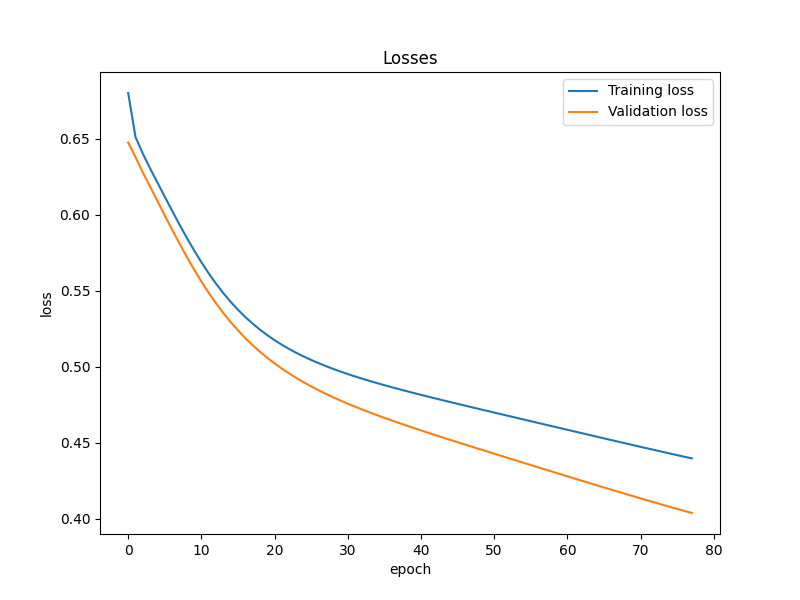
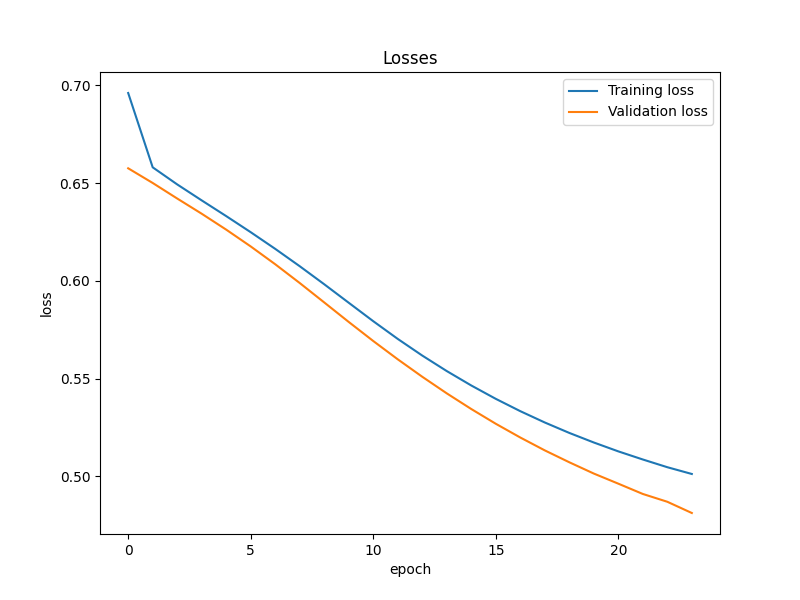
Fix loss and accuracy tracking for MultiLogReg

diff --git a/IN3050/oblig2/classifiers.py b/IN3050/oblig2/classifiers.py
@@ -1,5 +1,5 @@
 from abc import ABC, abstractmethod
-from typing import List, Optional
+from typing import Optional
 import numpy as np
 
 
@@ -45,6 +45,7 @@ class Classifier(ABC):
         self.train_accuracies = np.array([], dtype=float)
         self.val_accuracies = np.array([], dtype=float)
         self.trained_epochs = 0
+        self.weights = None
 
     @abstractmethod
     def predict(self, X: np.ndarray, threshold: Optional[float] = None) -> np.ndarray: ...
@@ -81,7 +82,8 @@ class BinaryLinearRegressionClassifier(Classifier):
 
         n_datapoints, n_features = X_TRAIN.shape
 
-        self.weights = np.zeros(n_features)
+        if self.weights is None:
+            self.weights = np.zeros(n_features)
 
         for _ in range(epochs):
             train_predictions = X_TRAIN @ self.weights
@@ -131,8 +133,9 @@ class BinaryLogisticRegressionClassifier(Classifier):
             X_VAL = add_bias(X_VAL, self.bias)
 
         n_datapoints, n_features = X_TRAIN.shape
-        
-        self.weights = np.zeros(n_features)
+
+        if self.weights is None:
+            self.weights = np.zeros(n_features)
         
         for _ in range(epochs):
             train_predictions = self._forward(X_TRAIN)
@@ -169,7 +172,7 @@ class BinaryLogisticRegressionClassifier(Classifier):
         return 1 / (1 + np.exp(-X @ self.weights))
 
 
-class MultiLogisticRegressionClassifier(BinaryLogisticRegressionClassifier):
+class MultiLogisticRegressionClassifier(Classifier):
     def fit(
         self,
         X_TRAIN: np.ndarray,
@@ -181,57 +184,31 @@ class MultiLogisticRegressionClassifier(BinaryLogisticRegressionClassifier):
         tol: float = 0.001,
         n_epochs_no_update: int = 5,
     ) -> None:
-        self.classifiers: List[BinaryLogisticRegressionClassifier] = []
         unique_classes = np.unique(T_TRAIN)
+        self.classifiers = [BinaryLogisticRegressionClassifier(self.bias) for _ in unique_classes]
 
-        for class_index in unique_classes:
-            T_TRAIN_BINARY = (T_TRAIN == class_index).astype(int)
-            T_VAL_BINARY = (T_VAL == class_index).astype(int) if T_VAL is not None else None
+        # Precompute the binary target arrays for training and validation sets
+        T_TRAIN_BINARIES = [(T_TRAIN == class_index).astype(int) for class_index in unique_classes]
+        T_VAL_BINARIES = [(T_VAL == class_index).astype(int) for class_index in unique_classes] if T_VAL is not None else [None] * len(unique_classes)
 
-            classifier = BinaryLogisticRegressionClassifier(self.bias)
-            classifier.fit(X_TRAIN, T_TRAIN_BINARY, X_VAL, T_VAL_BINARY, learning_rate, epochs, tol, n_epochs_no_update)
+        for _ in range(epochs):
+            for classifier, T_TRAIN_BINARY, T_VAL_BINARY in zip(self.classifiers, T_TRAIN_BINARIES, T_VAL_BINARIES):
+                # Here we only train the classifiers one epoch at a time which makes it significantly slower
+                # but gives us more debug information in terms of logging losses and accuracies while training
+                classifier.fit(X_TRAIN, T_TRAIN_BINARY, X_VAL, T_VAL_BINARY, learning_rate, 1, tol, n_epochs_no_update)
 
-            self.classifiers.append(classifier)
+            # Make predictions using the current state of classifiers and calculate losses and accuracies
+            train_predictions = self.predict(X_TRAIN)
+            self.train_losses = np.append(self.train_losses, mean_squared_error_loss(train_predictions, T_TRAIN))
+            self.train_accuracies = np.append(self.train_accuracies, accuracy(train_predictions, T_TRAIN))
 
-        # calculate losses and accuracies as the averages across all classifiers
-        self.train_losses = self.classifiers[0].train_losses
-        self.val_losses = self.classifiers[0].val_losses
-        self.train_accuracies = self.classifiers[0].train_accuracies
-        self.val_accuracies = self.classifiers[0].val_accuracies
+            if X_VAL is not None and T_VAL is not None:
+                val_predictions = self.predict(X_VAL)
+                self.val_losses = np.append(self.val_losses, mean_squared_error_loss(val_predictions, T_VAL))
+                self.val_accuracies = np.append(self.val_accuracies, accuracy(val_predictions, T_VAL))
 
-        for i in range(2, len(self.classifiers)):
-            if len(self.classifiers[i].train_losses) > len(self.train_losses):
-                self.train_losses.resize(self.classifiers[i].train_losses.shape)
-            elif len(self.classifiers[i].train_losses) < len(self.train_losses):
-                self.classifiers[i].train_losses.resize(self.train_losses.shape)
-
-            if len(self.classifiers[i].val_losses) > len(self.val_losses):
-                self.val_losses.resize(self.classifiers[i].val_losses.shape)
-            elif len(self.classifiers[i].val_losses) < len(self.val_losses):
-                self.classifiers[i].val_losses.resize(self.val_losses.shape)
-
-            if len(self.classifiers[i].train_accuracies) > len(self.train_accuracies):
-                self.train_accuracies.resize(self.classifiers[i].train_accuracies.shape)
-            elif len(self.classifiers[i].train_accuracies) < len(self.train_accuracies):
-                self.classifiers[i].train_accuracies.resize(self.train_accuracies.shape)
-
-            if len(self.classifiers[i].val_accuracies) > len(self.val_accuracies):
-                self.val_accuracies.resize(self.classifiers[i].val_accuracies.shape)
-            elif len(self.classifiers[i].val_accuracies) < len(self.val_accuracies):
-                self.classifiers[i].val_accuracies.resize(self.val_accuracies.shape)
-
-            self.train_accuracies += self.classifiers[i].train_accuracies
-            self.val_accuracies += self.classifiers[i].val_accuracies
-            self.train_accuracies += self.classifiers[i].train_accuracies
-            self.val_accuracies += self.classifiers[i].val_accuracies
-
-        self.train_losses = np.divide(self.train_losses, len(unique_classes))
-        self.val_losses = np.divide(self.val_losses, len(unique_classes))
-        self.train_accuracies = np.divide(self.train_accuracies, len(unique_classes))
-        self.val_accuracies = np.divide(self.val_accuracies, len(unique_classes))
-
-        # calculate this classifier's trained epochs as the sum of all the binary classifiers trained epochs
-        self.trained_epochs = np.sum(np.array([classifier.trained_epochs for classifier in self.classifiers]))
+        # Sum trained epochs across all classifiers
+        self.trained_epochs = np.sum([classifier.trained_epochs for classifier in self.classifiers])
 
     def predict(self, X: np.ndarray, threshold: Optional[float] = None) -> np.ndarray:
         if threshold is not None:

diff --git a/IN3050/oblig2/main.py b/IN3050/oblig2/main.py
@@ -20,12 +20,12 @@ def test_classifier(
     best_epochs = None
     best_learning_rate = None
     best_tol = None
-    best_c = classifier()
+    best_c = classifier() # None?
 
     # Since we're brute forcing so many different combinations of parameters, this may take a while
     # however in practice we would only have to run this once per dataset so thats fine. We could also
     # add more guesses for possible values here if we wanted.
-    for epochs in range(100):
+    for epochs in range(1, 100):
         for learning_rate in [0.0001, 0.001, 0.01, 0.1, 0.15, 0.2, 0.25, 0.3, 0.35, 0.4, 0.45, 0.5]:
             for tol in [0.0001, 0.0005, 0.001, 0.01]:
                 c = classifier()
@@ -148,7 +148,9 @@ def test_multi_logistic_classifier() -> None:
     # Running this test takes a bit longer than the binary classifiers, because
     # we are running several binary classifiers sequentially. The optimal
     # parameters for this algorithm are 99 epochs with a learning rate of 0.5
-    # resulting in an accuracy of 0.83
+    # resulting in an accuracy of 0.82. If we remove the tracking of losses
+    # and accuracies while training and just train the binary classifiers
+    # fully instead of 1 epoch at a time we can also reduce the runtime by ~4x
 
     print("Testing multi class logistic classifier with standard scaling")
     test_classifier(
